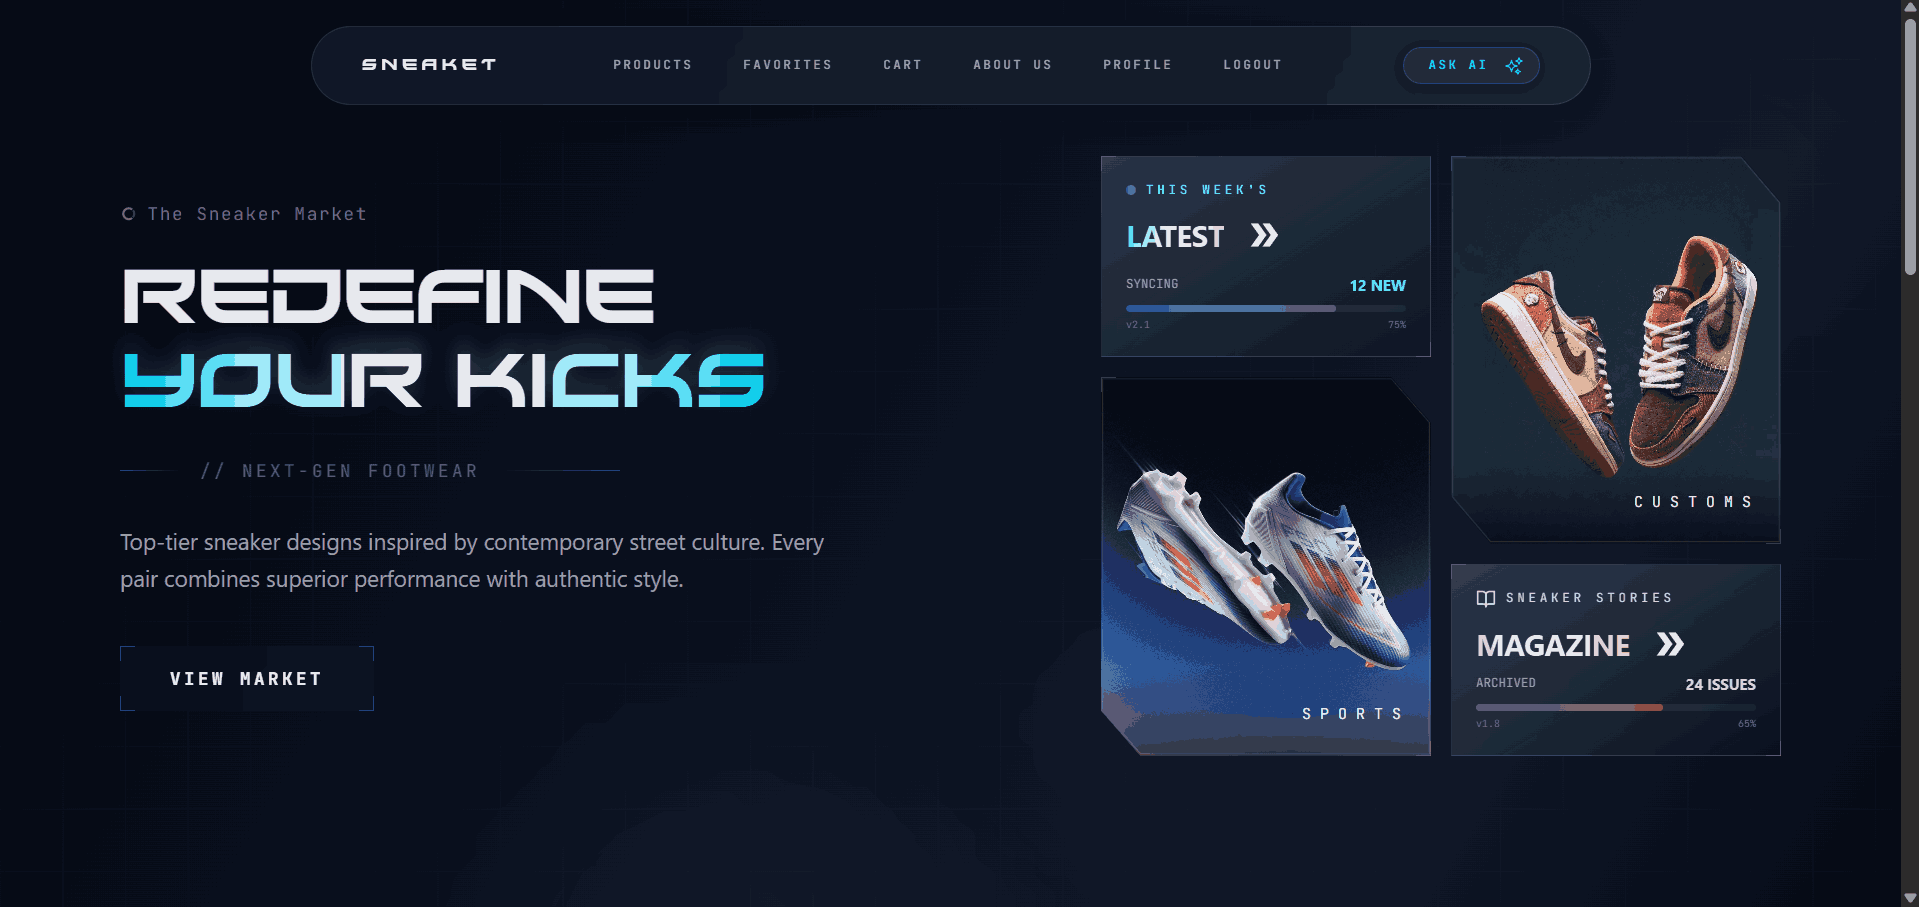
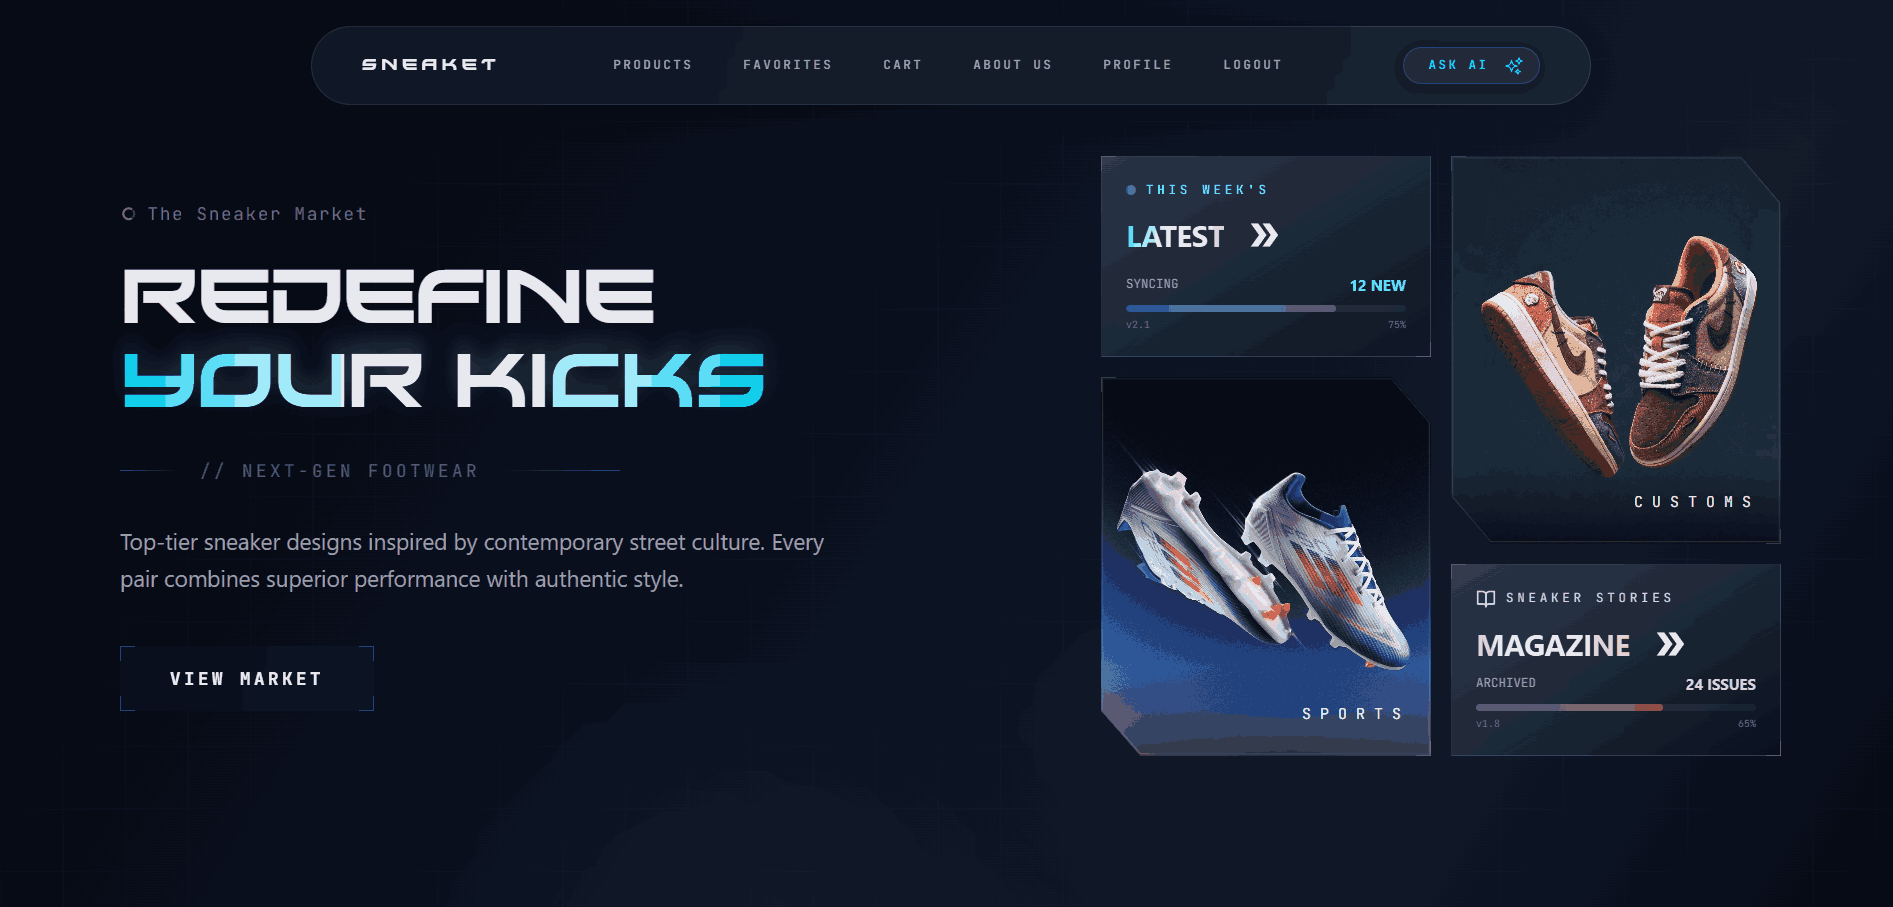
updated design

diff --git a/client/src/components/ProjectDetails.tsx b/client/src/components/ProjectDetails.tsx
@@ -298,22 +298,26 @@ export function ProjectDetails({ open, onClose, project }: ProjectDetailsProps) 
             {/* Drawer Footer Actions */}
             <motion.div
               variants={contentVariants}
-              className="px-4 py-3 sm:px-6 border-t border-[var(--editorial-line)] bg-[#efeae0] flex items-center justify-end gap-2.5 mt-auto shrink-0"
+              className="px-4 py-3 sm:px-6 border-t border-[var(--editorial-line)] bg-[#efeae0] flex items-center justify-end gap-3.5 mt-auto shrink-0 z-20"
             >
               <a
                 href={project.githubUrl || "https://github.com/rishebss"}
                 target="_blank"
                 rel="noreferrer"
-                className="p-2 border border-[var(--editorial-line)] bg-[#f5f1e8] text-[var(--editorial-ink)] hover:bg-[#7a6456] hover:text-white transition-colors cursor-pointer"
+                className="inline-flex items-center justify-center h-8 transition-transform hover:scale-105 cursor-pointer shrink-0"
                 title="View Source Code"
               >
-                <FaGithub size={14} />
+                <img
+                  src={`${import.meta.env.BASE_URL}github_dark.svg`}
+                  alt="GitHub"
+                  className="h-8 w-auto object-contain"
+                />
               </a>
               <a
                 href={project.link || project.githubUrl || "https://github.com/rishebss"}
                 target="_blank"
                 rel="noreferrer"
-                className="px-4 py-2 text-xs font-semibold bg-[#7a6456] text-white hover:bg-[#635145] transition-colors flex items-center gap-2 cursor-pointer shadow-sm"
+                className="px-4 py-2 text-xs font-semibold bg-[#7a6456] text-white hover:bg-[#635145] transition-colors flex items-center gap-2 cursor-pointer shadow-sm h-8"
               >
                 <span>Visit</span>
                 <FaArrowUpRightFromSquare size={10} />
